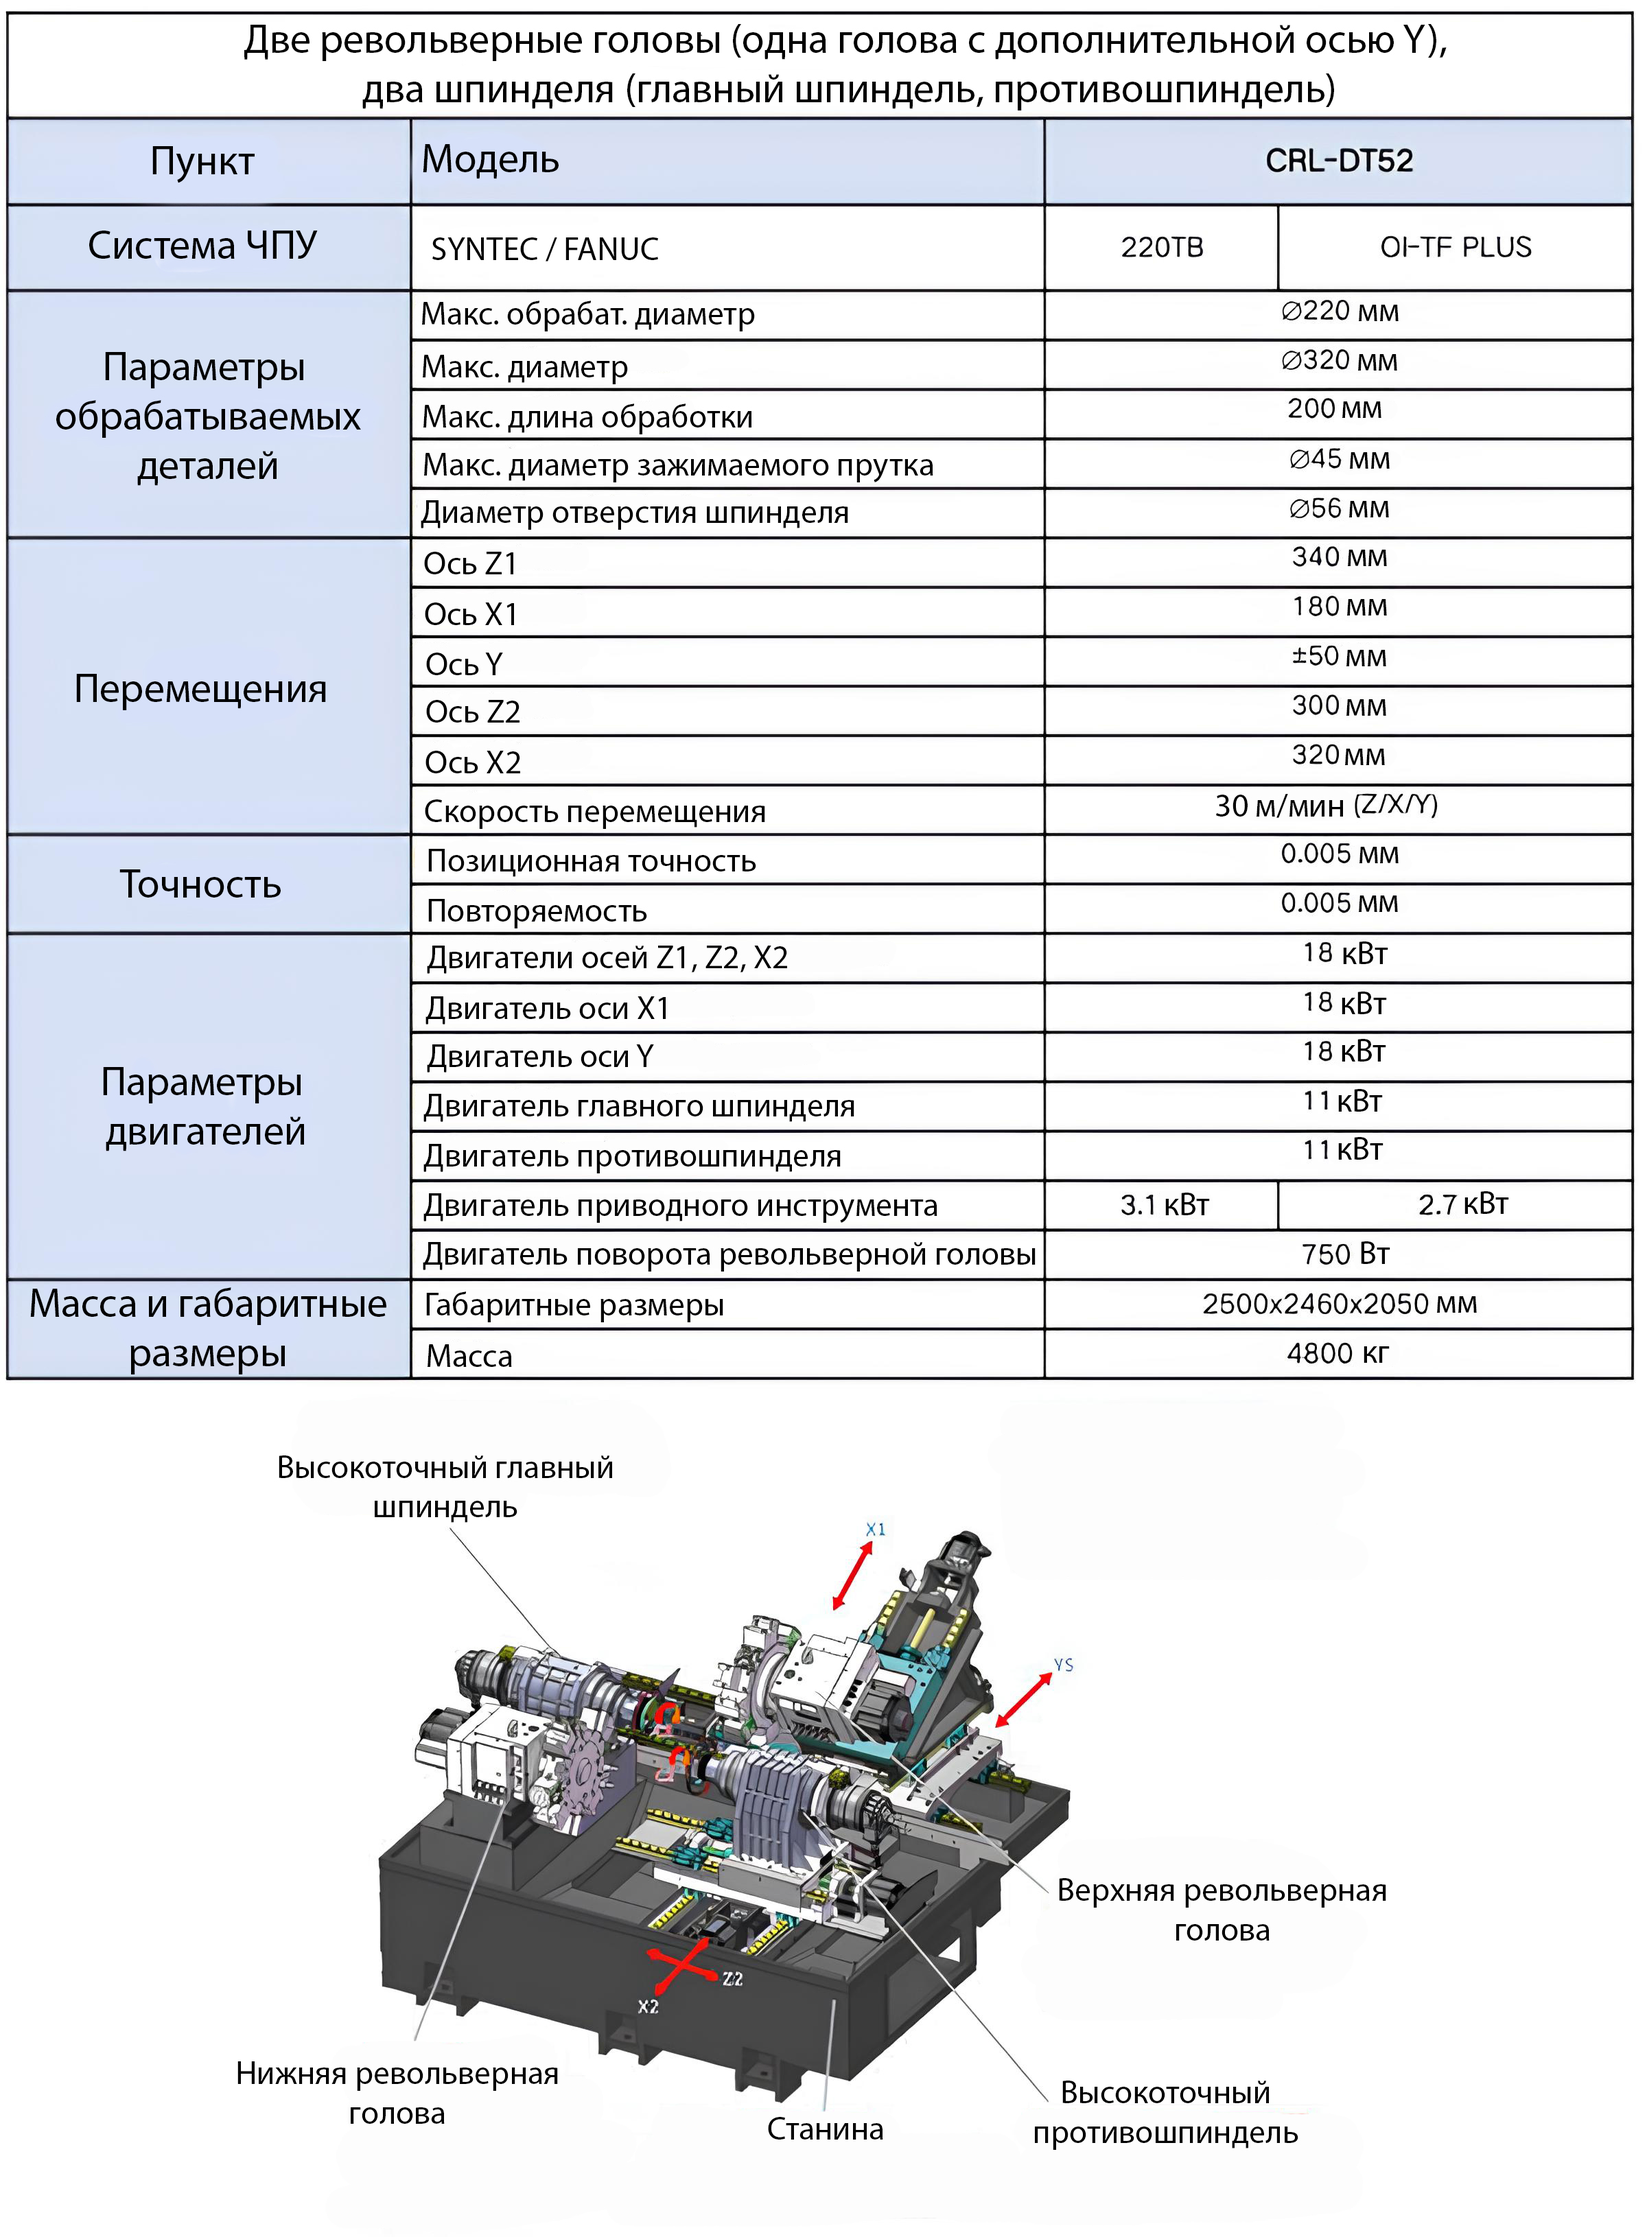
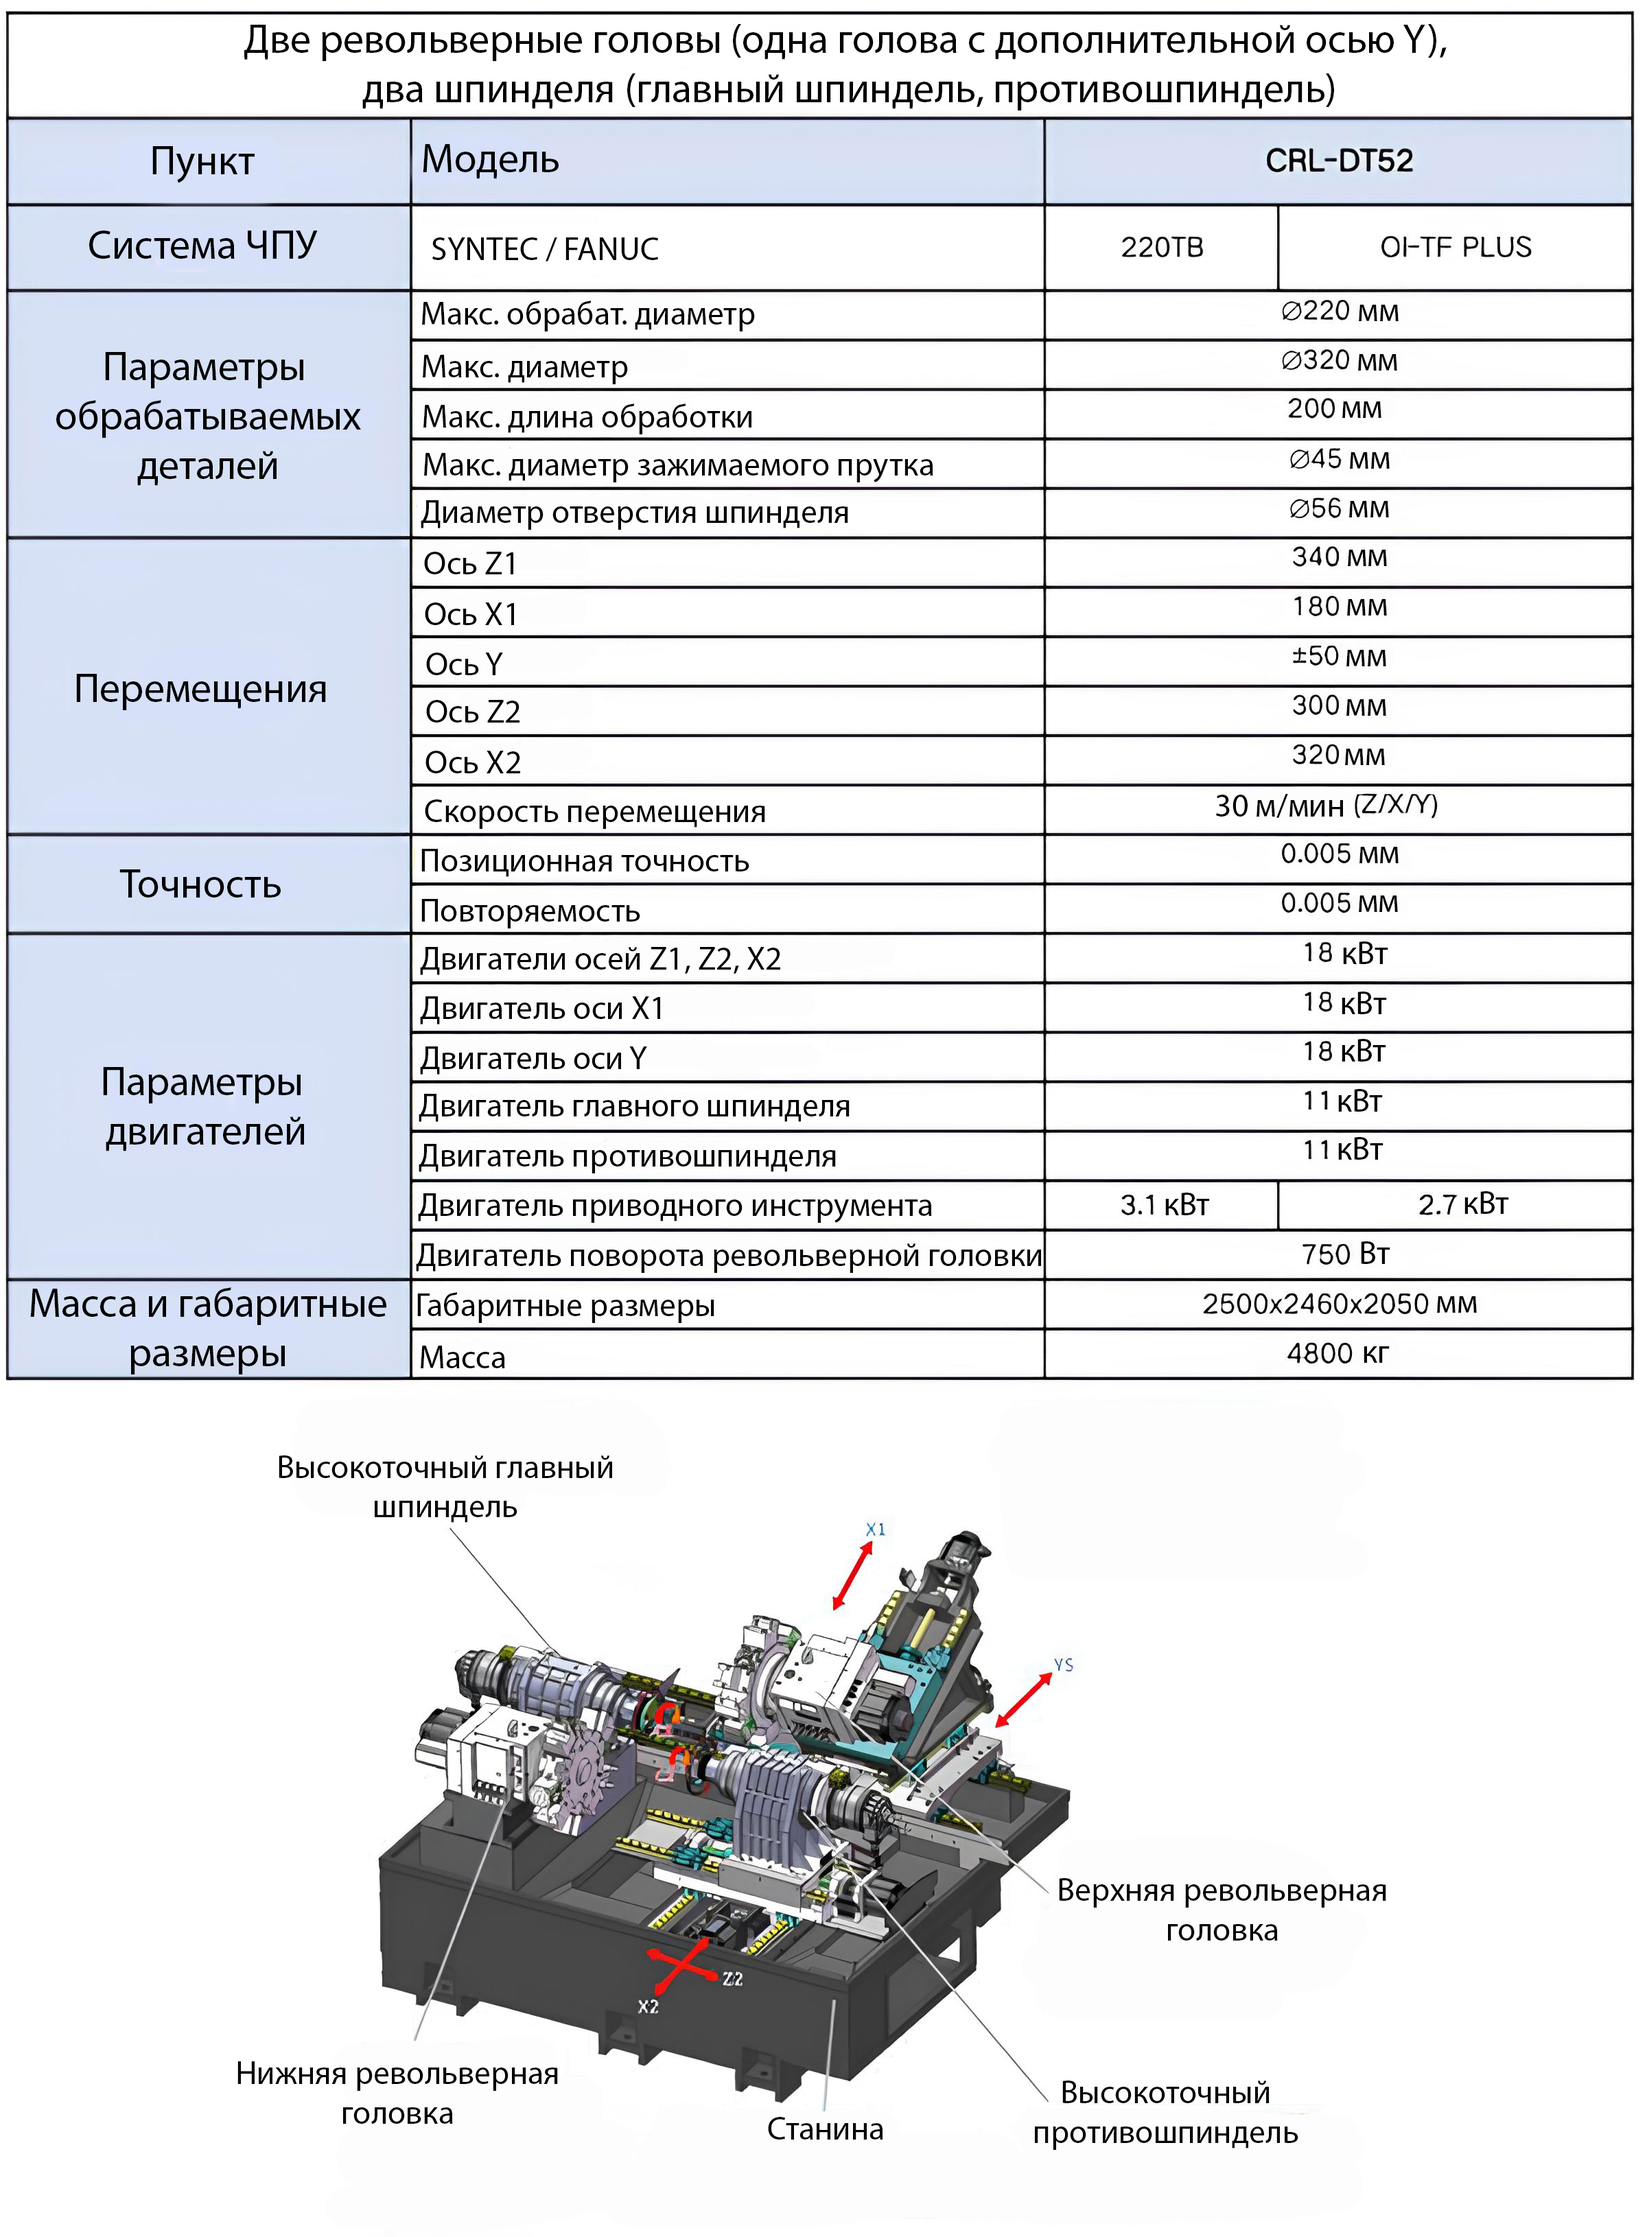
Corrected mistake (turret)

Changed region(s): [[0.25, 0.3718, 0.625, 0.6196], [0.7188, 0.8365, 0.7812, 0.8675], [0.2188, 0.9294, 0.2812, 0.9604]]

diff --git a/crl-dt52_-Поставщик.html b/crl-dt52_-Поставщик.html
@@ -654,7 +654,7 @@
                                     <h1>CRL-DT52</h1>
                                     <p>
 
-	COORAY CRL-DT52 Токарно-фрезерный обрабатывающий центр с ЧПУ с двумя револьверными головами, противошпинделем и осью Y.</p>
+	COORAY CRL-DT52 Токарно-фрезерный обрабатывающий центр с ЧПУ с двумя револьверными головками, противошпинделем и осью Y.</p>
                                     <div class="product_show_main_button">
                                         <a href="#product_inquiry_form">Отправить заявку</a>
                                                                             </div>
@@ -695,7 +695,7 @@
 	<div class="fl-col-content fl-node-content"><div class="fl-module fl-module-rich-text fl-node-0obhg4s612cf" data-node="0obhg4s612cf">
 	<div class="fl-module-content fl-node-content">
 		<div class="fl-rich-text">
-	<p>COORAY CRL-DT52 Токарно-фрезерный обрабатывающий центр с ЧПУ с двумя револьверными головами, противошпинделем и осью Y.</p>
+	<p>COORAY CRL-DT52 Токарно-фрезерный обрабатывающий центр с ЧПУ с двумя револьверными головками, противошпинделем и осью Y.</p>
 <p>Данный станок способен выполнять широкий спект операций, включая фрезерование, точение валов, нарезание резьбы и сверление.</p>
 <p>Оси X/Y/Z оснащены высокоточными шариковыми направляющими с предварительным натягом, что обеспечивает исключительный уровень точности позиционирования и повторяемости.</p>
 <p>Для максимальной жесткости и точности станка ключевые компоненты (станина, рама двигателя, подшипники, каретка) выполнены в виде единой связанной конструкции.</p>
@@ -727,8 +727,8 @@
 	<div class="fl-col-content fl-node-content"><div class="fl-module fl-module-rich-text fl-node-1lnpxb8siqa0" data-node="1lnpxb8siqa0">
 	<div class="fl-module-content fl-node-content">
 		<div class="fl-rich-text">
-	<p>CRL-DT52 - это станок с двумя шпинделями и двумя револьверными головами. На нем возможно выполнение комплексной обработки деталей (токарные, фрезерные, сверлильные, резьбонарезные операции) за один установ благодаря следующему оснащению:</p>
-  <p><b>1. Высокоточные револьверные головы.</b> На станке установлено две 12-позиционных револьверных головы немецкого производителя SAUTER (стандарт BMT55). Они обеспечивают высокую скорость смены инструмента и точность позиционирования до 0.003 мм. Приводной инструмент может быть установлен во все 12 позиций каждой головы.</p>
+	<p>CRL-DT52 - это станок с двумя шпинделями и двумя револьверными головками. На нем возможно выполнение комплексной обработки деталей (токарные, фрезерные, сверлильные, резьбонарезные операции) за один установ благодаря следующему оснащению:</p>
+  <p><b>1. Высокоточные револьверные головки.</b> На станке установлено две 12-позиционных револьверных головки немецкого производителя SAUTER (стандарт BMT55). Они обеспечивают высокую скорость смены инструмента и точность позиционирования до 0.003 мм. Приводной инструмент может быть установлен во все 12 позиций каждой головки.</p>
   <p><b>2. Двухшпиндельная система.</b> Данный станок оснащен главным шпинделем и противошпинделем. Такое решение обеспечивает высокую жесткость, минимальный уровень вибраций и термических расширений на высоких скоростях обработки, что особенно критично для задач, требующих высокой точности и низкой шероховатости поверхности обрабатываемых деталей.</p>
 <p><b>3. Высокотехнологичная конструкция оси Y.</b> Наклонная конструкция с углом 30° обеспечивает постоянное нахождение центра тяжести револьверной головки в зоне каретки, что значительно повышает жесткость и стабильность процесса фрезерования. Ход по оси Y составляет ±50 мм, что позволяет обрабатывать детали сложной формы и большого диаметра.</p>
 </div>
